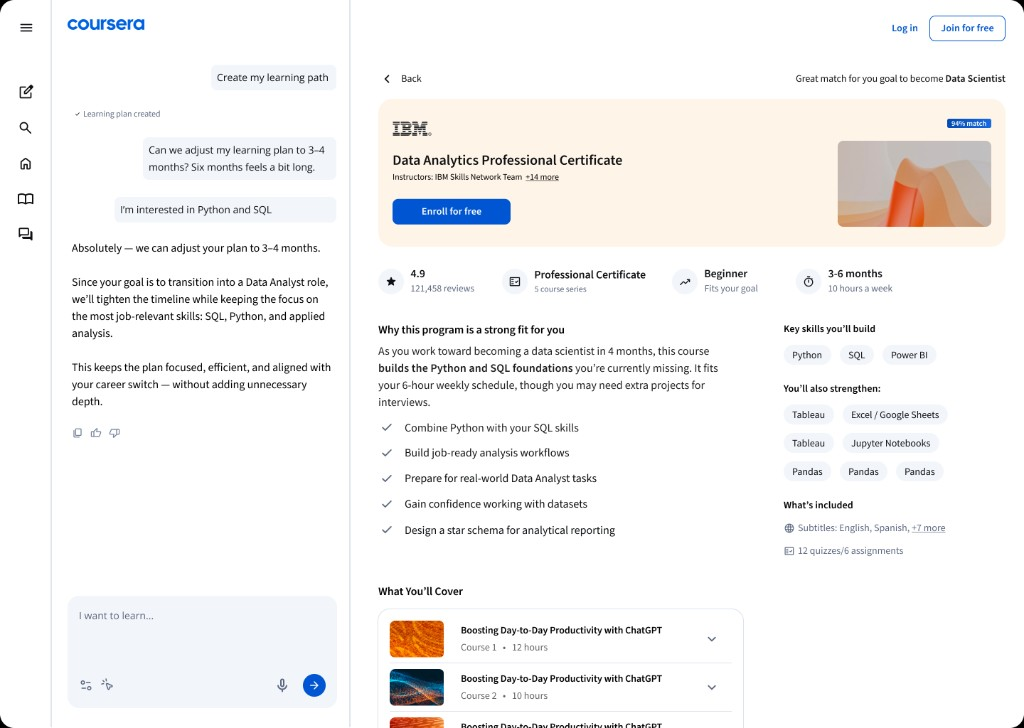
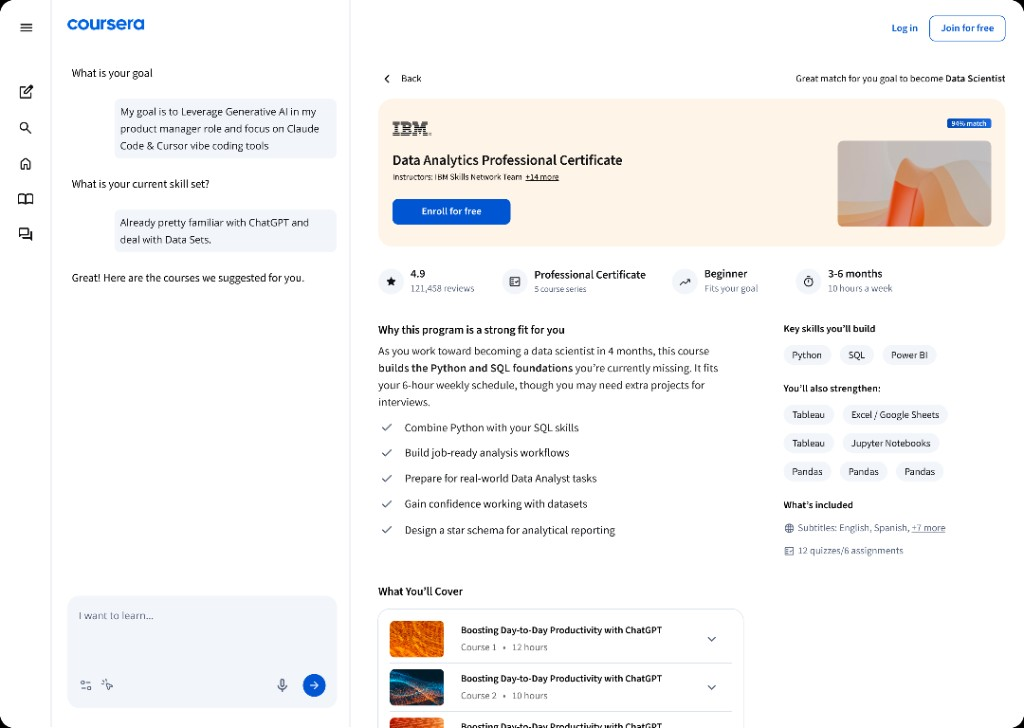
chore: update prepare hero image; add standard course placeholder in learning path modal

diff --git a/src/LearningPage.tsx b/src/LearningPage.tsx
@@ -1386,6 +1386,14 @@ function PersonalizedLearningPathDialog({ open, onClose }: { open: boolean; onCl
             </div>
           </div>
 
+          <button
+            type="button"
+            className="w-full shrink-0 rounded-lg border border-[#dae1ed] bg-white px-4 py-2.5 text-left text-sm font-semibold text-[#0056d2] hover:bg-slate-50"
+            aria-label="Switch to standard course structure (placeholder)"
+          >
+            switch to standard course structure
+          </button>
+
           <ul className="flex flex-col gap-2">
             {PERSONALIZED_LEARNING_PATH_MODULES.map((mod, idx) => (
               <li